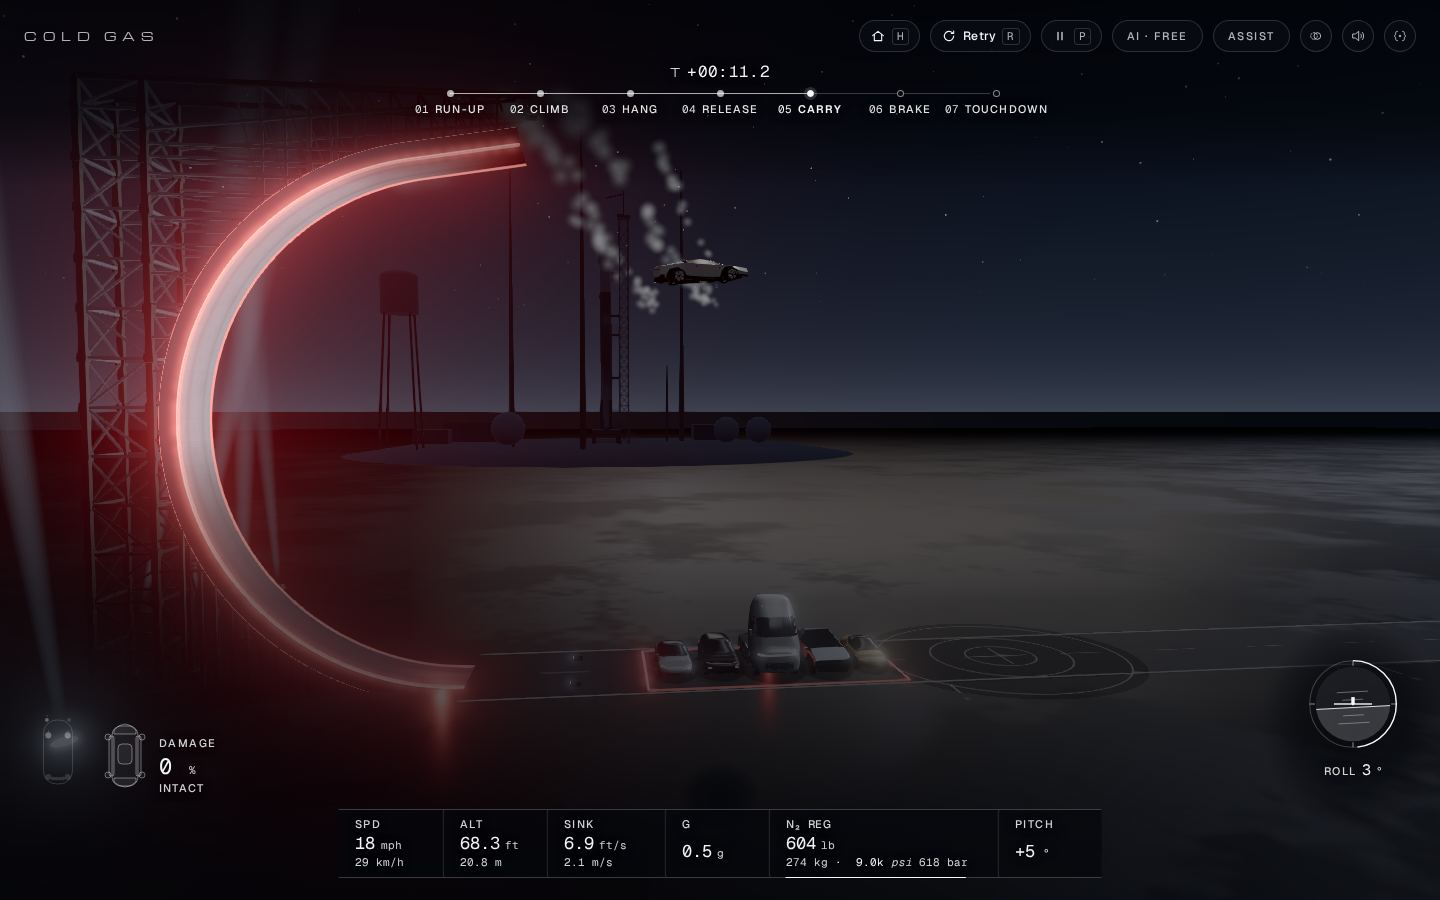
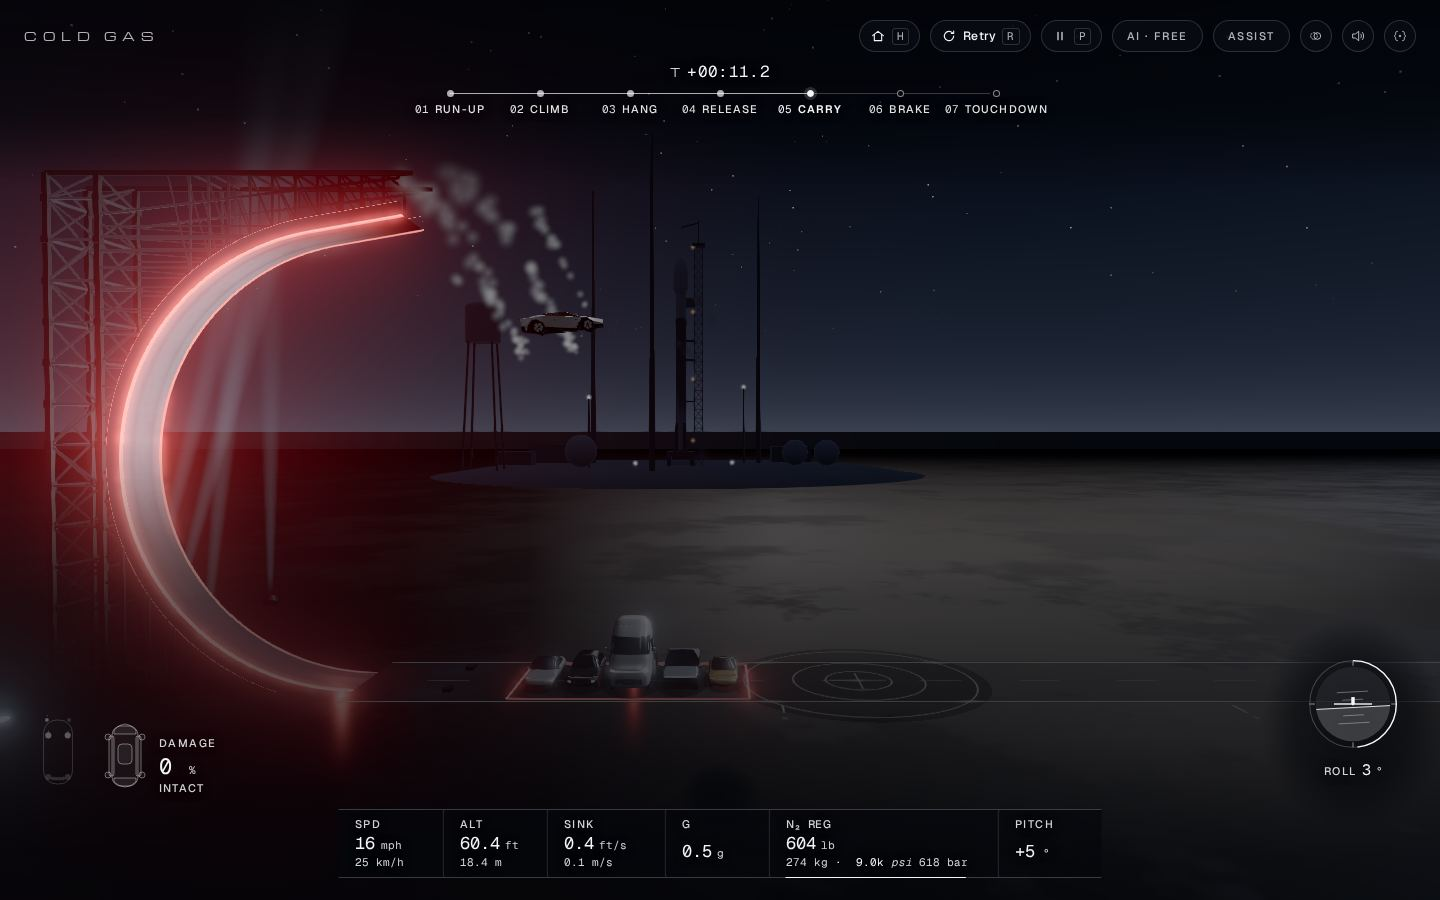
build: 0113 re-place the locked-off carry closer as the car comes down; budgets lowered; ticket, changelog, lesson
Claude-Session: https://claude.ai/code/session_01AQyTjXrKn5r3eN6rJk8NbC

diff --git a/src/render/director.js b/src/render/director.js
@@ -59,7 +59,7 @@ export function createDirector(camera) {
     // `aim` (0 = the reference framing, 1 = on the path) as the region narrows.
     rl: 0, rt: 0, rr: 0, rb: 0, aim: 0,
     bandT: 1, bandB: -1,                                 // the carry's band (0113, NDC): under the top HUD, over the bottom one
-    placed: false, carryPos: new THREE.Vector3(), carryLook: new THREE.Vector3(),   // the carry's locked-off placement (0113)
+    placed: false, carryT: 0, carryPos: new THREE.Vector3(), carryLook: new THREE.Vector3(),   // the carry's locked-off placement (0113)
   };
 
   // Behind, above and to the side of the car along its line of flight (the last good heading when
@@ -172,7 +172,19 @@ export function createDirector(camera) {
     const ahead = Math.min(CARRY_AHEAD * d * tanH, Math.max(0, (carPos.z - SHOW.pad.z) / 2));
     want.z -= ahead; lookWant.z -= ahead;
     fitCarry(carPos);
-    st.carryPos.copy(want); st.carryLook.copy(lookWant); st.placed = true;
+  }
+  // Placed at the cut; placed again when the car's nose nears the far edge, or once the car has come down far enough
+  // that a fresh placement stands this much closer (the first is framed for the car at its highest), no sooner than
+  // CARRY_GAP after the last.
+  const CARRY_CLOSER = 1.4, CARRY_GAP = 0.6;
+  function carry(carPos) {
+    const due = st.t - st.carryT >= CARRY_GAP;
+    if (st.placed && !(due && carryOut(carPos))) {
+      if (!due) return;
+      placeCarry(carPos);
+      if (st.carryPos.distanceTo(carPos) < want.distanceTo(carPos) * CARRY_CLOSER) return;
+    } else placeCarry(carPos);
+    st.carryPos.copy(want); st.carryLook.copy(lookWant); st.placed = true; st.carryT = st.t;
   }
   // The car's nose near the far edge of the locked-off frame (or the car behind it).
   function carryOut(carPos) {
@@ -338,7 +350,7 @@ export function createDirector(camera) {
       // Past the row's back it cuts to the tracking follow down to the pad, which the landing rig eases out of.
       if (st.shot === CARRY && carPos.z < ROW_Z0) { st.shot = FOLLOW; snap(); }
       if (st.shot === CARRY) {
-        if (!st.placed || carryOut(carPos)) placeCarry(carPos);
+        carry(carPos);
         camera.position.copy(st.carryPos);
         camera.lookAt(st.carryLook);
         // A car that comes down on the row: the landing rig eases in from here.

diff --git a/docs/LESSONS.md b/docs/LESSONS.md
@@ -131,3 +131,4 @@ Mistakes already paid for. Read before working.
 - **A lens framed by a vertical FOV shrinks sideways with the aspect, and a light shard is the place for a new spec (2026-10-30, 0108).** three's `fov` is vertical, so a shot framed side-on on a desktop shows 0.46× the width on an upright phone: the landed rig and the crash cut (40° and 42° at ≈ 11 m) drew a 4.65 m car 1.2–1.45 screens wide. Hold the horizontal lens under an aspect (`lens()` in director.js: tan(v/2) × 0.9 / aspect) rather than move the camera, which can walk it into the row or the Wall. One page per input kind, resized between flights (`setViewportSize`, then two rAFs before the run), flies 11 shapes in ~45 s locally where 11 tests would boot 11 times. And read the shard jobs' per-test lines before re-weighting: on #169 shard 2 was 17 min of short tests and shard 3 31.6 of long ones, so the cut moved the start of shard 3 into shard 2 (71:109:70), not the other way.
 - **A shard that is slow in most runs is slow files, not slow runners (2026-10-30, builder).** Main went red on #171 (e2e 2/3 cancelled at 35 min, 95 of 112 green). I gave each CI job its own runner-speed factor and normalised the per-test times by it, which read shard 2's slowness on main (1.22×) as a slow runner and chose 65:100:85 (≈ 30.4 min each). #172 then ran e2e 2/3 past 35 min twice in a row, both at 1.22× those "normal" times, while e2e 1/3 ran at 0.5×. hud-fit..phone-flip were slow in four runs of five, so factoring the job had folded the files' own cost into the runner and hidden it. Score cuts on each test's raw median (and its 75th percentile) across every run you have, never on times corrected by a per-job factor. 69:92:89 is 31.7 / 31.6 / 31.9 by the median and 33.8 / 34.1 / 34.1 by the p75 of six runs. The suite is ≈ 95 median minutes, so three 35-minute jobs have almost no margin left: the fourth shard (frozen ci.yml) is overdue.
 - **Don't run `npm test` beside a Playwright fleet and call its timeouts red (2026-10-30, critic).** With the production shots running on the same 4 CPUs, `roads.test.js`'s `bigsur` back-on-the-road case hit its 90 s timeout twice (533/535); alone the file was 20/20 in 132 s. Run the unit suite on an idle machine, or re-run a timed-out file alone before reporting it.
+- **A camera that stands back to fit more must also stand still, and must hand back before the payoff (2026-10-30, 0113).** Fitting the car (20–25 m up at the row's front) and the parked row into the band a landscape phone's HUD leaves takes ≈ 1.35–1.9× the carry's distance. Doing it in the tracking camera passed every frame probe at 0 % row cover, but the dolly and truck walked the now-visible lit Wall across the frame: show-live-jets wall 104 → 188‰ on a phone (over budget), 77 → 146‰ desktop. Locked off (placed at the cut, re-placed only on the far edge or when a placement 1.4× closer is possible), the same framing reads wall 1.1 / 0.2‰ and halves ground, row, sky and backdrop; the car region rises ≈ 25–29 % (a small car crossing a still frame), inside tolerance. And the stand-back must end before the touchdown: touchdown-frame.spec pins the landed rig's first frames, which ease in from wherever the carry left the camera, so past the row it cuts back to the old tracking follow. Run `flicker.mjs --only=<scenario>` on any camera change before trusting the frame probes, and never `pkill -f`/`pgrep -f` a pattern that appears in your own command line (exit 144, twice in this run).

diff --git a/docs/CHANGELOG.md b/docs/CHANGELOG.md
@@ -1,6 +1,6 @@
 # Changelog
 
-2026-10-30 · #0113 · The parked row stays in sight through the carry (#PR). On a phone held sideways, the five vehicles the car is jumping spent most of the crossing behind the readouts docked along the bottom of the screen (up to 97 % of them hidden), and on a desktop the start of the crossing hid them behind the telemetry strip: you flew over a row you couldn't see. The camera that tracks the carry now keeps the car under the top bar and the whole row above the bottom readouts, standing back only as far as it needs to while the car is high; where the car and the row already fit it frames exactly as before, and a phone held upright now keeps the row's near side in the frame too. No sim change.
+2026-10-30 · #0113 · The parked row stays in sight through the carry (#PR). On a phone held sideways, the five vehicles the car is jumping spent most of the crossing behind the readouts docked along the bottom of the screen (up to 97 % of them hidden), and on a desktop the start of the crossing hid them behind the telemetry strip: you flew over a row you couldn't see. The carry over the row is now a still, broadcast-style wide shot, like the one after the release: it keeps the car under the top bar and the whole row and the pad above the bottom readouts, cutting in closer as the car comes down, then back to the usual follow shot for the landing. Where the car and the row already fit, the framing is the same as before, and a phone held upright now keeps the row's near side in frame too. The shot also holds stiller than before: the Wall no longer shimmers behind it. No sim change.
 2026-10-30 · #0111 · The score holds its line on a narrow phone (#173). On phones 360 px wide and narrower (most Androids, a flip phone's cover screen), the results header used to break: "/ 100" dropped under the score and "Perfect 10" split onto two lines. Now the score and its "/ 100" always stay together, and wherever the verdict doesn't fit beside it (a narrow phone, half of a folding phone, a drill's long headline) the verdict takes the line above, whole, with the score under it on the right; the longest wrap within their own line and never touch the score. Where they fit side by side (a Perfect 10 from 375 px up, tablets, desktops) the header is exactly as before. No sim change.
 2026-10-30 · #0108 · The touchdown fits an upright phone (#170). On a phone held upright, the low camera that watches the car land drew it wider than the screen: the nose and the tail were cut off at both edges, and a wreck under the crash camera the same. On any screen narrower than it is tall, those two shots now widen their lens so the whole car sits inside the frame with room either side (about three quarters of the width at most), from the touchdown to the results. Desktop, landscape and near-square screens frame it exactly as before. No sim change.
 2026-10-30 · #0098 · Pause is one tap away on a phone or tablet (#169). A touch player had no way to pause a run short of leaving the app (Escape, P and a pad's Start were the only ways in). The top bar now carries a Pause button beside Home and Retry during the countdown and the run, and in Free Drive and the Sandbox, with a full 44 px target; it opens the same pause sheet, and a mouse can click it too. It stays off the title, the results and the replay. On a narrow phone mid-run, Retry shows its icon only to make room.

diff --git a/docs/backlog/0113-the-row-stays-in-sight-through-the-carry.md b/docs/backlog/0113-the-row-stays-in-sight-through-the-carry.md
@@ -85,3 +85,22 @@ sibling at the viewports above, with the 25 % bound.
 ## Out of scope
 The ground shot after touchdown (0108). The replay's rigs (0068). The HUD's own layout (0112: this ticket
 moves the picture, not the instruments).
+
+## Shipped (2026-10-30, builder)
+- `src/render/director.js`: the carry over the row is a locked-off shot, like the hold. At the cut it reads the band
+  the HUD leaves (under the mission block / top bar + 24 px, over whatever is docked at the bottom across the middle
+  of the screen; once per run, after a resize and on a HUD mode change), takes the tracking framing for the car where
+  it is, trucks it so the car stands left of centre with the flight ahead, and fits it (`fitCarry`): the car's centre
+  under the top line and the row's near foot over the band, by pitching within the band and, only where the span is
+  taller than the band, standing back about the car–row midpoint (≤ 2.5×). It re-places on the far edge or when a
+  placement 1.4× closer is possible (≥ 0.6 s apart). Past the row's back it cuts to the old tracking follow, so the
+  touchdown frames are main's. Where the framing already fit nothing moves; upright, the row's near foot is now kept
+  on screen.
+- Row under the HUD, worst frame, car z −9 → −22.6 (`frame-probe.js`, each body's box, 16×16 samples): 0 % at every
+  view (844×390, 667×375, 740×360, 932×430, 1180×820 touch, 1440×900, 1280×720, 390×844, the iPads, the FOLD / FLIP
+  shapes); main 94–97 % on landscape phones, 62–66 % desktop. Row on screen at least 98 % on every screen wider
+  than tall (main 14 %).
+- show-live-jets, same machine, swiftshader (main → branch ‰): phone wall 103.6 → 1.1, ground 31.3 → 13.4, row
+  281.6 → 167.7, backdrop 135.1 → 88.6, car 181.8 → 234.7; desktop wall 77.2 → 0.2, car 204.2 → 252.9. Budgets
+  lowered for the regions that fell; the car's rise is inside tolerance.
+- Shots: `docs/shots/row-carry-0113/`.
